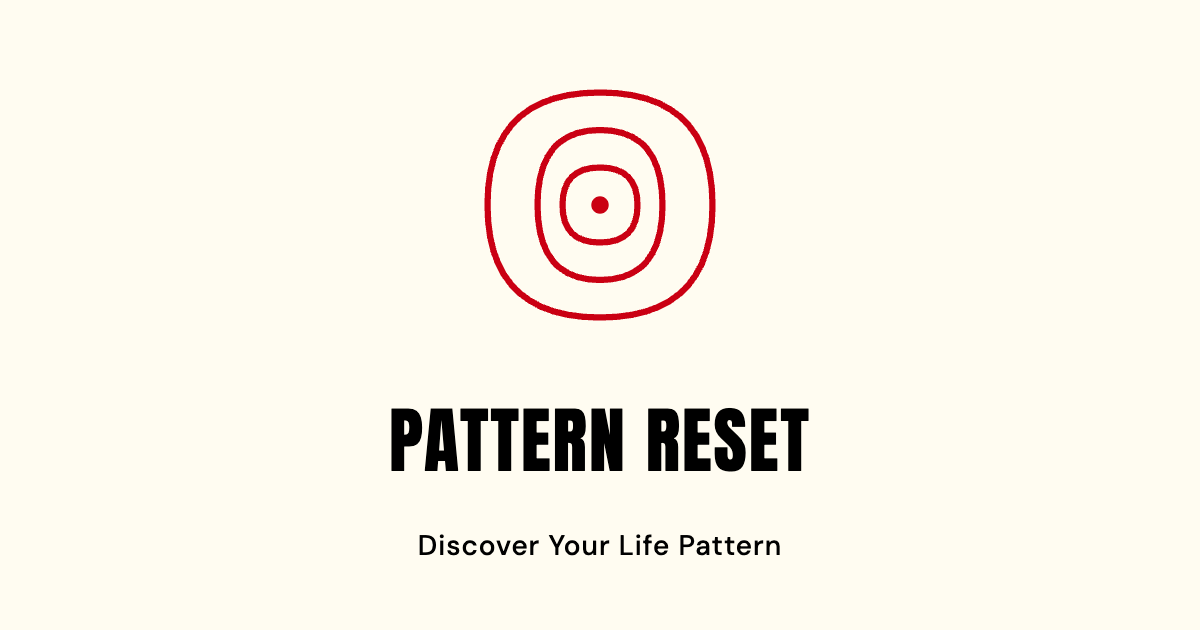
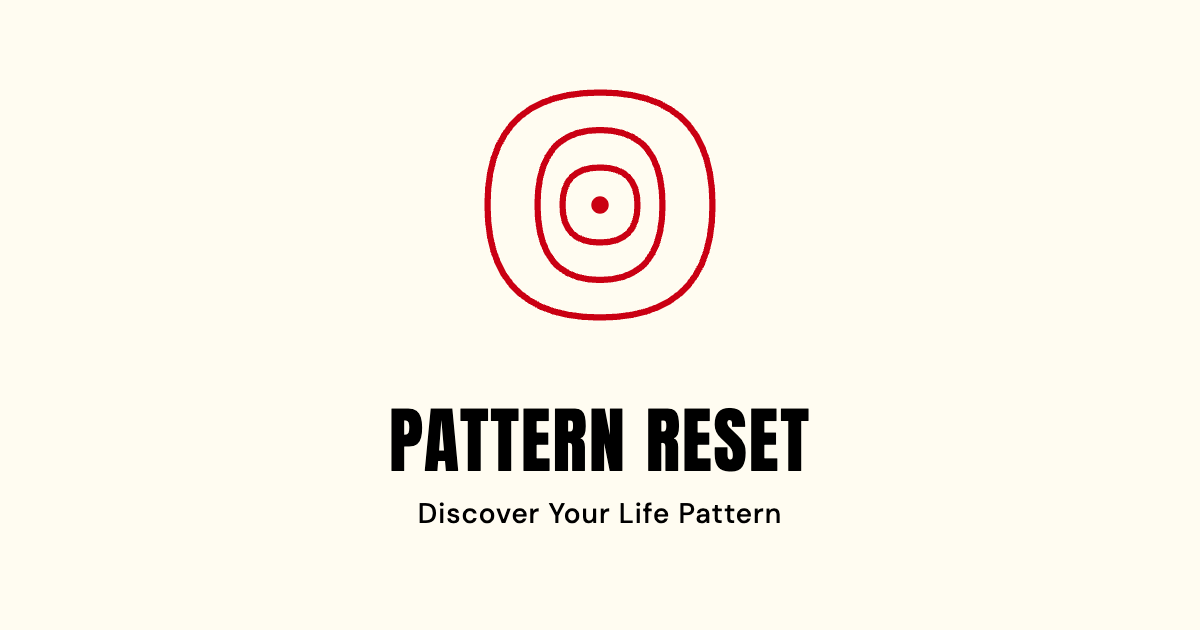
Feb 3:50pm updated spacing in share social image titles

Changed region(s): [[0.3392, 0.7841, 0.6475, 0.9048]]

diff --git a/scripts/build-og-image.js b/scripts/build-og-image.js
@@ -1,0 +1,60 @@
+#!/usr/bin/env node
+/**
+ * Build pattern-reset-og.png using Puppeteer (renders Anton font correctly).
+ * Sharp/librsvg does not render @font-face embedded fonts.
+ */
+const fs = require('fs');
+const path = require('path');
+
+const htmlPath = path.join(__dirname, 'og-image.html');
+const pngPath = path.join(__dirname, '../images/pattern-reset-og.png');
+const svgPath = path.join(__dirname, '../images/pattern-reset-og.svg');
+
+async function build() {
+  const puppeteer = require('puppeteer');
+  const chromePath = process.platform === 'darwin'
+    ? '/Applications/Google Chrome.app/Contents/MacOS/Google Chrome'
+    : undefined;
+  const browser = await puppeteer.launch({
+    headless: true,
+    executablePath: chromePath,
+    args: ['--no-sandbox', '--disable-setuid-sandbox']
+  });
+  const page = await browser.newPage();
+
+  await page.setViewport({ width: 1200, height: 630, deviceScaleFactor: 1 });
+  await page.goto(`file://${htmlPath}`, { waitUntil: 'networkidle0' });
+  await page.waitForFunction(() => document.fonts && document.fonts.ready);
+  await new Promise(r => setTimeout(r, 500));
+
+  await page.screenshot({ path: pngPath, type: 'png' });
+  await browser.close();
+
+  console.log('Wrote', pngPath);
+}
+
+// Also write the SVG (for reference; fonts embedded but Sharp won't render them)
+const fontB64 = fs.readFileSync(path.join(__dirname, '../anton-font-base64.txt'), 'utf8').trim();
+const svg = `<svg xmlns="http://www.w3.org/2000/svg" viewBox="0 0 1200 630" width="1200" height="630">
+  <defs>
+    <style>
+      @font-face { font-family: 'Anton'; font-style: normal; font-weight: 400;
+        src: url(data:font/woff2;charset=utf-8;base64,${fontB64}) format('woff2'); }
+      .brand-text { font-family: 'Anton', sans-serif; font-weight: 400; fill: #000000; }
+      .tagline-text { font-family: Arial, Helvetica, sans-serif; font-weight: 500; fill: #000000; }
+    </style>
+  </defs>
+  <rect width="1200" height="630" fill="#fffcf1"/>
+  <g transform="translate(475, 80) scale(2.5)">
+    <path d="M50,5 Q5,5 5,50 Q5,95 50,95 Q95,95 95,50 Q95,5 50,5" stroke="#ca0013" stroke-width="2.5" fill="none" stroke-linecap="round" stroke-linejoin="round"/>
+    <path d="M50,20 Q25,20 25,50 Q25,80 50,80 Q75,80 75,50 Q75,20 50,20" stroke="#ca0013" stroke-width="2.5" fill="none" stroke-linecap="round" stroke-linejoin="round"/>
+    <path d="M50,35 Q35,35 35,50 Q35,65 50,65 Q65,65 65,50 Q65,35 50,35" stroke="#ca0013" stroke-width="2.5" fill="none" stroke-linecap="round" stroke-linejoin="round"/>
+    <circle cx="50" cy="50" r="3.5" fill="#ca0013"/>
+  </g>
+  <text x="600" y="458" text-anchor="middle" class="brand-text" font-size="72" letter-spacing="2">PATTERN RESET</text>
+  <text x="600" y="478" text-anchor="middle" class="tagline-text" font-size="28" letter-spacing="1">Discover Your Life Pattern</text>
+</svg>`;
+fs.writeFileSync(svgPath, svg, 'utf8');
+console.log('Wrote', svgPath);
+
+build().catch(err => { console.error(err); process.exit(1); });

diff --git a/scripts/og-image.html b/scripts/og-image.html
@@ -1,0 +1,51 @@
+<!DOCTYPE html>
+<html>
+<head>
+  <meta charset="utf-8">
+  <link href="https://fonts.googleapis.com/css2?family=Anton&family=DM+Sans:wght@500&display=swap" rel="stylesheet">
+  <style>
+    * { margin: 0; padding: 0; box-sizing: border-box; }
+    body {
+      width: 1200px;
+      height: 630px;
+      background: #fffcf1;
+      display: flex;
+      flex-direction: column;
+      align-items: center;
+      justify-content: flex-start;
+      padding-top: 80px;
+      font-family: 'DM Sans', sans-serif;
+    }
+    .logo {
+      width: 250px;
+      height: 250px;
+      margin-bottom: 56px;
+    }
+    .brand-text {
+      font-family: 'Anton', sans-serif;
+      font-size: 72px;
+      font-weight: 400;
+      color: #000;
+      letter-spacing: 2px;
+      margin-bottom: 0;
+    }
+    .tagline-text {
+      font-family: 'DM Sans', sans-serif;
+      font-size: 28px;
+      font-weight: 500;
+      color: #000;
+      letter-spacing: 1px;
+    }
+  </style>
+</head>
+<body>
+  <svg class="logo" viewBox="0 0 100 100" xmlns="http://www.w3.org/2000/svg">
+    <path d="M50,5 Q5,5 5,50 Q5,95 50,95 Q95,95 95,50 Q95,5 50,5" stroke="#ca0013" stroke-width="2.5" fill="none" stroke-linecap="round" stroke-linejoin="round"/>
+    <path d="M50,20 Q25,20 25,50 Q25,80 50,80 Q75,80 75,50 Q75,20 50,20" stroke="#ca0013" stroke-width="2.5" fill="none" stroke-linecap="round" stroke-linejoin="round"/>
+    <path d="M50,35 Q35,35 35,50 Q35,65 50,65 Q65,65 65,50 Q65,35 50,35" stroke="#ca0013" stroke-width="2.5" fill="none" stroke-linecap="round" stroke-linejoin="round"/>
+    <circle cx="50" cy="50" r="3.5" fill="#ca0013"/>
+  </svg>
+  <div class="brand-text">PATTERN RESET</div>
+  <div class="tagline-text">Discover Your Life Pattern</div>
+</body>
+</html>
